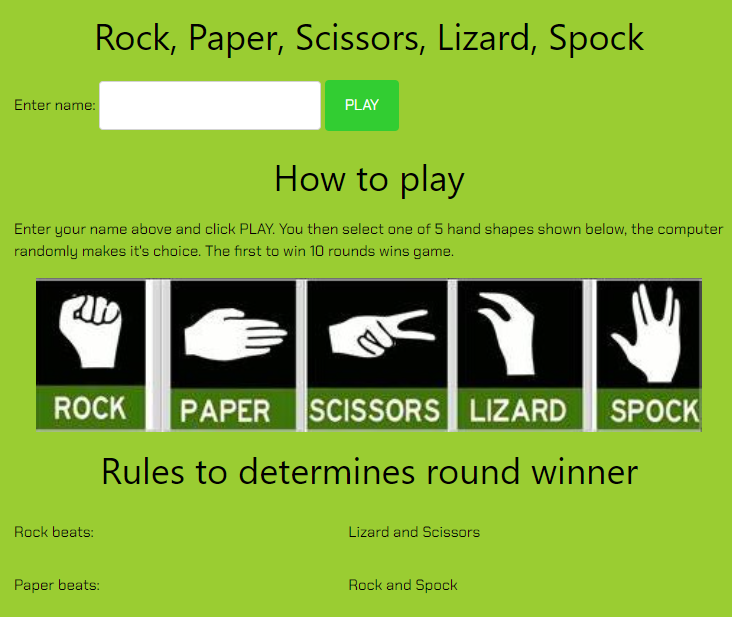
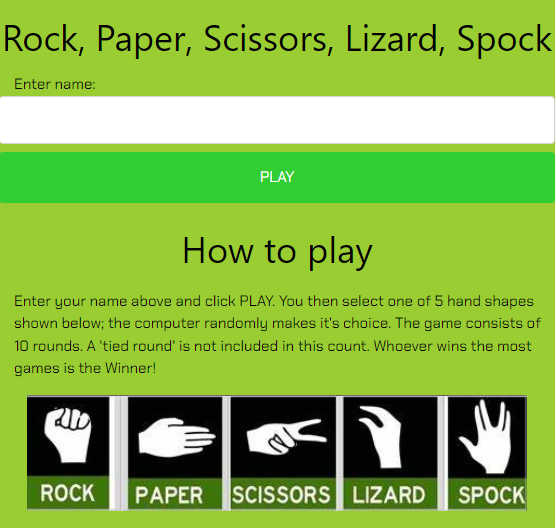
add more features and screen-shots to readme file

diff --git a/index.html b/index.html
@@ -30,8 +30,8 @@
         </div>
         <div>
             <h1>How to play</h1>
-            <p>Enter your name above and click PLAY. You then select one of 5 hand shapes shown below, the
-                computer randomly makes it's choice. The first to win 10 rounds wins game.</p>
+            <p>Enter your name above and click PLAY. You then select one of 5 hand shapes shown below; the
+                computer randomly makes it's choice. The game consists of 10 rounds. A 'tied round' is not included in this count. Whoever wins the most games is the Winner!</p>
             <img id="help-image" src="assets/images/rocpapscilizspo_all.jpg" alt="Rock, Paper, Scissors, Lizard, Spock">
             <h1>Rules to determines round winner</h1>
             <div>

diff --git a/README.md b/README.md
@@ -8,10 +8,12 @@ List of features:
 - If the player does not enter his/her name, but clicks on the PLAY button, an error message will appear in the form of a modal. The text on the modal window will display "Please enter your name". You can close this modal window but clicking on the 'x' symbol only.
 ![No Name Added error message in the form of a Modal](/assets/images/NoNameModal.png)
 
-- After entering a player name, the player is directed to the game screen. As you can see the players' name is carried through to this screen (The player name is stored in a Cookie). 
-     - The 'Welcome Angela!' message appears at the top of the screen. 
+- After entering a player name, the player is directed to the game screen. The game screen is divided into 3 areas: 
+1. Player Game Area: The players' name is carried through to this screen (The player name is stored in a Cookie). 
+     - A Welcome message appears at the top of the screen( under the choice list); in this case the message is, 'Welcome Angela!'.
      - A score counter appears on the line below the welcome message eg. 'Player Score: 0'.
      - A pictorial image of the game, 'Rock, Paper, Scissors, Spock', appears underneath the welcome message.
+     - The player is playing against the computer, so a Computer score counter and pictorial representation of game also appear below players game area.
 ![Game Screen Part 1](/assets/images/gamescreen1.png)
 ![Game Screen Part 1](/assets/images/gamescreen2.png)
 
